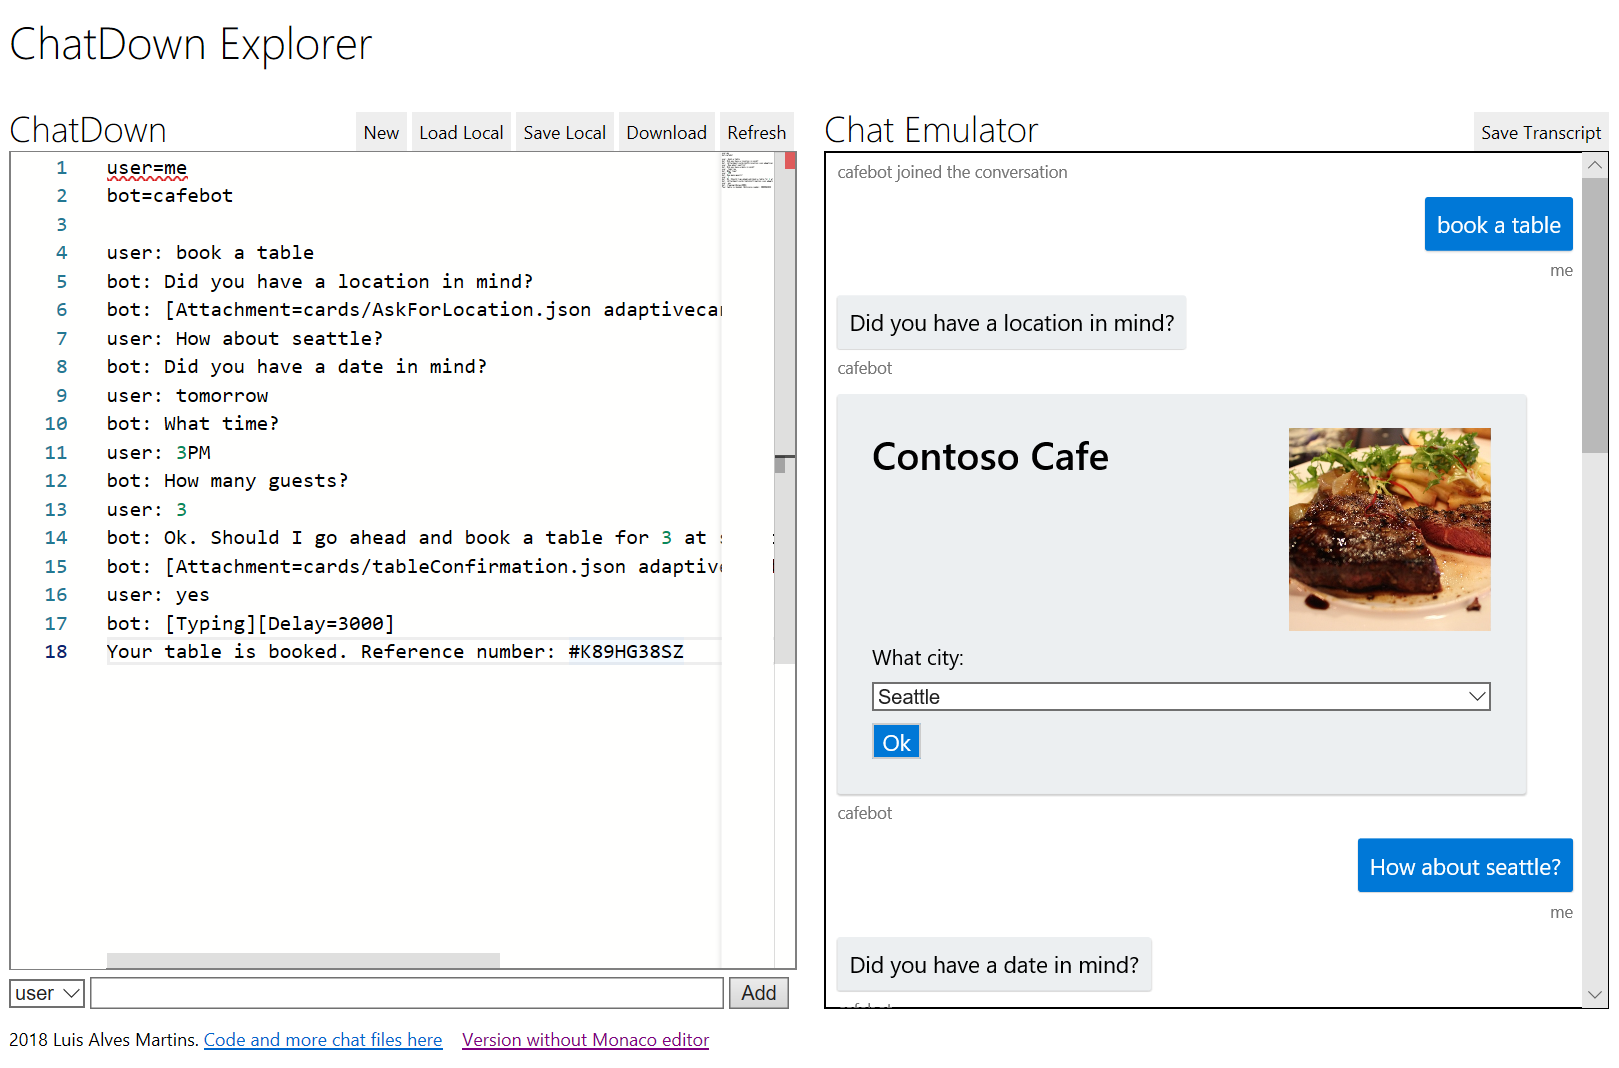
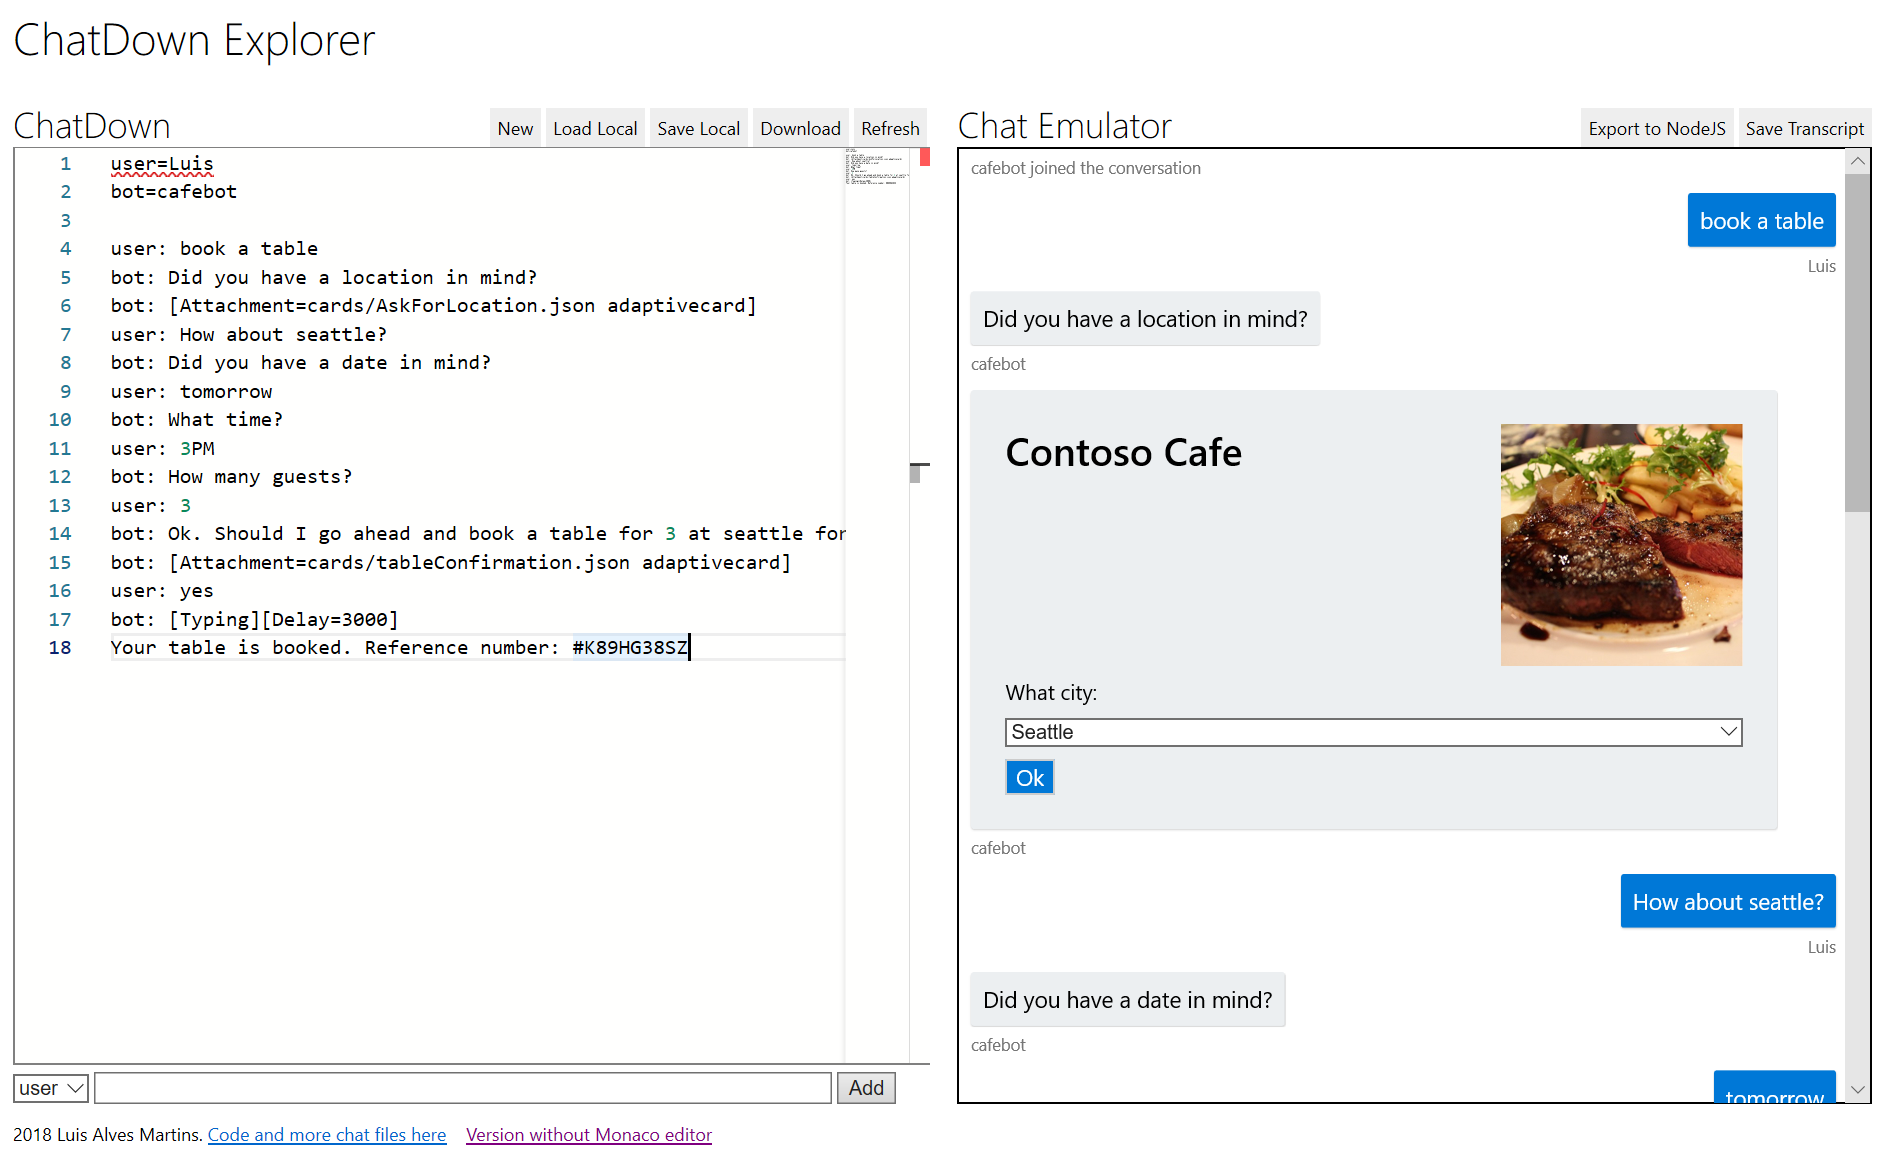
Added the export to NodeJS
Thanks Jamie for the tips

diff --git a/ChatDown Explorer/nodetemplate.js b/ChatDown Explorer/nodetemplate.js
@@ -1,0 +1,105 @@
+// Copyright (c) Microsoft Corporation. All rights reserved.
+// Licensed under the MIT License.
+
+const { ActivityTypes, CardFactory } = require('botbuilder');
+const { TextPrompt, NumberPrompt, ChoicePrompt, ConfirmPrompt, DateTimePrompt, DialogSet, WaterfallDialog } = require('botbuilder-dialogs');
+
+const DIALOG='thedialog';
+const DIALOG_STATE_PROPERTY = 'dialogState';
+const NAME_PROMPT = 'name_prompt';
+const NUMBER_PROMPT = 'number_prompt';
+const DATE_PROMPT = 'date_prompt';
+const CHOICE_PROMPT = 'choice_prompt';
+const CONFIRM_PROMPT = 'confirm_prompt';
+
+class [DIALOGNAME] {
+    /**
+     *
+     * @param {Object} conversationState
+     * @param {Object} userState
+     */
+    constructor(conversationState, userState) {
+        // creates a new state accessor property. see https://aka.ms/about-bot-state-accessors to learn more about the bot state and state accessors
+        this.conversationState = conversationState;
+        this.userState = userState;
+
+        this.dialogState = this.conversationState.createProperty(DIALOG_STATE_PROPERTY);
+        this.dialogs = new DialogSet(this.dialogState);
+
+        // Add prompts
+        this.dialogs.add(new TextPrompt(NAME_PROMPT));
+        this.dialogs.add(new NumberPrompt(NUMBER_PROMPT));
+        this.dialogs.add(new DateTimePrompt(DATE_PROMPT));
+        this.dialogs.add(new ChoicePrompt(CHOICE_PROMPT));
+        this.dialogs.add(new ConfirmPrompt(CONFIRM_PROMPT));
+
+        // Create a dialog that asks the user for their name.
+        this.dialogs.add(new WaterfallDialog(DIALOG, [
+//STEPS
+[STEPS]
+            async function (step) {
+                await step.endDialog();
+            },                              
+        ]));
+    }
+
+    /**
+     *
+     * @param {Object} context on turn context object.
+     */
+    async onTurn(turnContext) {
+        // See https://aka.ms/about-bot-activity-message to learn more about the message and other activity types.
+        if (turnContext.activity.type === ActivityTypes.Message) {
+            // Create dialog context
+            const dc = await this.dialogs.createContext(turnContext);
+
+            const utterance = (turnContext.activity.text || '').trim().toLowerCase();
+            if (utterance === 'cancel') {
+                if (dc.activeDialog) {
+                    await dc.cancelAllDialogs();
+                    await dc.context.sendActivity(`Ok... Cancelled.`);
+                } else {
+                    await dc.context.sendActivity(`Nothing to cancel.`);
+                }
+            }
+
+            // Continue the current dialog
+            if (!turnContext.responded) {
+                await dc.continueDialog();
+            }
+
+            // Show menu if no response sent
+            if (!turnContext.responded) {
+                await dc.beginDialog(DIALOG);
+            }
+        } else if (
+            turnContext.activity.type === ActivityTypes.ConversationUpdate
+        ) {
+            // Do we have any new members added to the conversation?
+            if (turnContext.activity.membersAdded.length !== 0) {
+                // Iterate over all new members added to the conversation
+                for (var idx in turnContext.activity.membersAdded) {
+                    // Greet anyone that was not the target (recipient) of this message.
+                    // Since the bot is the recipient for events from the channel,
+                    // context.activity.membersAdded === context.activity.recipient.Id indicates the
+                    // bot was added to the conversation, and the opposite indicates this is a user.
+                    if (turnContext.activity.membersAdded[idx].id !== turnContext.activity.recipient.id) {
+                        // Send a "this is what the bot does" message to this user.
+                        await turnContext.sendActivity('I am a bot that demonstrates a simple implmentation of the WaterfallDialog with multiple prompts using date type validation.');
+                        
+                        const dc = await this.dialogs.createContext(turnContext);
+                        await dc.beginDialog(DIALOG);
+                    }
+                }
+            }
+        }
+
+        // Save changes to the user name.
+        await this.userState.saveChanges(turnContext);
+
+        // End this turn by saving changes to the conversation state.
+        await this.conversationState.saveChanges(turnContext);
+    }
+}
+
+module.exports.[DIALOGNAME] = [DIALOGNAME];

diff --git a/ChatDown Explorer/script.js b/ChatDown Explorer/script.js
@@ -56,6 +56,67 @@ var MenuChatEmulator={
             }, 0); 
         }
 
+    },
+    ExportToNode:function(){
+        var dialogName=prompt("Name of the Dialog","SimpleWaterfallDialogBot");
+        $.get( "nodetemplate.js", function( data ) {
+            data=data.replace(/\[DIALOGNAME\]/g,dialogName);
+            var steps="";
+
+            var chatDown=readContents(getChat())
+            for(let activity of chatDown){
+                switch (activity.type) {
+                case "ActivityTypes.Message":
+                    if (activity.from.role=="bot")
+                    {
+
+                        if (activity.attachments)
+                        {
+                            var card=JSON.parse(activity.attachments[0].content);
+
+                            steps+="            async function (step) {\n                ";
+                            steps+="await step.context.sendActivity({attachments: [CardFactory.adaptiveCard(" + JSON.stringify(card) + ")]});";
+                            steps+="\n            },\n";
+                        }
+                        else
+                            steps+="            async function (step) {\n                await step.prompt(NAME_PROMPT, `" + activity.text + "?`);\n            },\n";
+                        //sOutput+=markdownit().render(activity.text);
+                    }
+                    
+                    break;
+                case "typing":
+                    break;
+                case "conversationUpdate":
+                    break;
+                default:
+                    steps+="//UNPROCESSED:" + activity.type + "\n";
+                    break;
+                }
+            }
+        
+            data=data.replace(/\[STEPS\]/g,steps);
+
+            //SAVE LOCAL
+            var text=data;
+            var filename=dialogName + ".js"
+    
+            var file = new Blob([text], {type: "text"});
+            if (window.navigator.msSaveOrOpenBlob) // IE10+
+                window.navigator.msSaveOrOpenBlob(file, filename);
+            else { // Others
+                var a = document.createElement("a"),
+                        url = URL.createObjectURL(file);
+                a.href = url;
+                a.download = filename;
+                document.body.appendChild(a);
+                a.click();
+                setTimeout(function() {
+                    document.body.removeChild(a);
+                    window.URL.revokeObjectURL(url);  
+                }, 0); 
+            }
+    
+        });    
     }
 }
 

diff --git a/ChatDown Explorer/ChatDownExplorer.html b/ChatDown Explorer/ChatDownExplorer.html
@@ -67,6 +67,7 @@ Your table is booked. Reference number: #K89HG38SZ
             <div class=panelheader>
                 <div>Chat Emulator</div>
                 <div class=menu> 
+                    <a onclick="MenuChatEmulator.ExportToNode()">Export to NodeJS</a>
                     <a onclick="MenuChatEmulator.SaveTranscript()">Save Transcript</a>
                 </div>
             </div>

diff --git a/ChatDown Explorer/ChatDownExplorer_monaco.html b/ChatDown Explorer/ChatDownExplorer_monaco.html
@@ -50,6 +50,7 @@
             <div class=panelheader>
                 <div>Chat Emulator</div>
                 <div class=menu> 
+                    <a onclick="MenuChatEmulator.ExportToNode()">Export to NodeJS</a>
                     <a onclick="MenuChatEmulator.SaveTranscript()">Save Transcript</a>
                 </div>
             </div>

diff --git a/readme.md b/readme.md
@@ -4,7 +4,7 @@ Two projects in this repo:
 
 ## ChatDown Explorer
 
-Enables you to write chatdown code and see it live in the embedded bot emulator window.
+Enables you to write chatdown code and see it live in the embedded bot emulator window. You can export the transcript or the bot NodeJS dialog to use in your bot code.
 
 Done in pure HTML and Javascript, reusing the chatdown tools (https://github.com/Microsoft/botbuilder-tools)
 
@@ -16,18 +16,33 @@ Chat files can be loaded and saved locally or downloaded from an URL. Transcript
 
 ![Image](/ChatDown%20Explorer/screenshot.png "Screenshot")
 
-## ChatDown Libraries
-
-A list of ChatDown flows, organized by industry, demonstrating "happy path" conversations.
-
 ### Try it
 
 Here: https://lambot.blob.core.windows.net/public/ChatDownExplorer.html
 
 or here with the Monaco editor: https://lambot.blob.core.windows.net/public/ChatDownExplorer_monaco.html
 
+### To use the Node.JS exported code
+
+You may use Jamie's Waterfall Dialog Sample - https://github.com/daltskin/WaterfallDialogBotv4 as a base start. Replace the bot.js with the export file and simply run it.
+
+Or add this code in your bot to run it:
+```
+// Import the custom bot class that provides a turn handling function.
+const { WaterfallDialogBot } = require('./<exportedfile>');
+
+// Create conversation state with in-memory storage provider.
+const conversationState = new ConversationState(memoryStorage);
+const userState = new UserState(memoryStorage);
+
+// Create the bot object that provides the turn handler function.
+const bot = new WaterfallDialogBot(conversationState, userState);
+```
+
 ## Possible future developments 
 
-with no specific order:
-- Choose between Monaco or Textarea version
 - Develop a cooperative solution that enables two persons to build the chat performing role playing in two different computers. One is the bot, the other is a user.
+
+## ChatDown Libraries
+
+A list of ChatDown flows, organized by industry, demonstrating "happy path" conversations. Your contribution is more than welcome.
